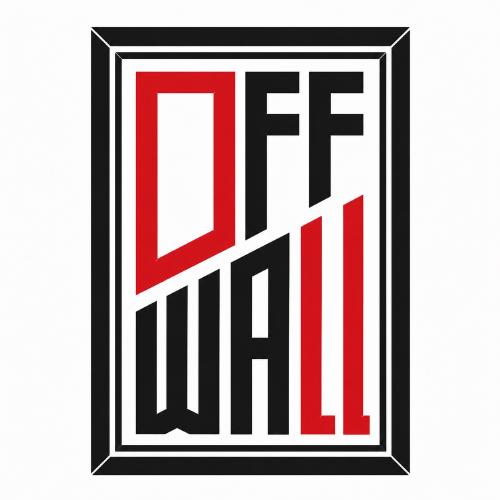
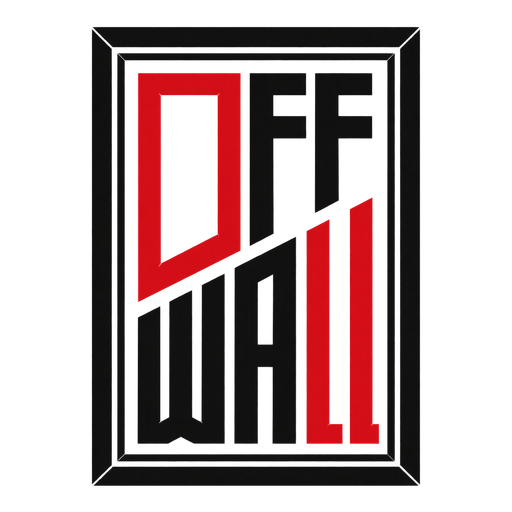
Update search identity and illustrate frame finishes

diff --git a/src/app/page.tsx b/src/app/page.tsx
@@ -7,13 +7,7 @@ import { StructuredData } from '@/components/structured-data';
 import { homeSeo, pageMetadata, SITE_URL } from '@/lib/seo';
 export async function generateMetadata() {
   const { demo } = await getCatalog();
-  return pageMetadata(
-    `${homeSeo.title} | OFFWALL`,
-    homeSeo.description,
-    '/',
-    '/artwork/jordan-chicago.png',
-    demo,
-  );
+  return pageMetadata(homeSeo.title, homeSeo.description, '/', '/artwork/jordan-chicago.png', demo);
 }
 export const dynamic = 'force-dynamic';
 export default async function Home() {
@@ -27,8 +21,19 @@ export default async function Home() {
           '@id': `${SITE_URL}/#organization`,
           name: 'OFFWALL',
           url: SITE_URL,
-          logo: `${SITE_URL}/offwall-logo.png`,
+          logo: `${SITE_URL}/offwall-logo-transparent.png`,
           sameAs: ['https://www.instagram.com/offwall.rs/'],
+        }}
+      />
+      <StructuredData
+        data={{
+          '@context': 'https://schema.org',
+          '@type': 'WebSite',
+          '@id': `${SITE_URL}/#website`,
+          name: 'OFFWALL',
+          alternateName: 'Off Wall',
+          url: `${SITE_URL}/`,
+          publisher: { '@id': `${SITE_URL}/#organization` },
         }}
       />
       <section className="hero section ink">
@@ -81,10 +86,10 @@ export default async function Home() {
       <section className="section surface feature" id="ramovi">
         <div className="frame-art">
           <Image
-            src="/artwork/negroni.png"
-            alt="Negroni poster sa ramom — detalj završnice"
+            src="/ramovi-crni-beli-drvo.webp"
+            alt="Ilustracija uglova ramova: crni mat, jednostavni beli i drvo toplog tamnog tona, odozgo nadole"
             fill
-            sizes="(max-width: 900px) 90vw, 45vw"
+            sizes="(max-width: 1000px) 90vw, 45vw"
           />
         </div>
         <div className="stack">
@@ -118,7 +123,9 @@ export default async function Home() {
               </article>
             ))}
           </div>
-          <p className="caption muted">Dostupne opcije i tačne cene proveri uz izabrani poster.</p>
+          <p className="caption muted">
+            Ilustrativni prikaz završnica. Dostupne opcije i tačne cene proveri uz izabrani poster.
+          </p>
           <Link className="button dark" href="/posteri">
             Izaberi poster i ram
           </Link>

diff --git a/src/lib/seo.ts b/src/lib/seo.ts
@@ -29,9 +29,9 @@ export function pageMetadata(
   };
 }
 export const homeSeo = {
-  title: 'Dizajnirani posteri i ramovi za tvoj zid',
+  title: 'OFFWALL: Posteri za zid | Sport, film i serije, street culture, lifestyle, arhitektura',
   description:
-    'OFFWALL posteri inspirisani sportom, filmovima, patikama i arhitekturom. Izaberi motiv, dimenzije i ram ili nam pošalji ideju za poster po meri.',
+    'Posteri za zid: sport, filmovi i serije, street culture, lifestyle i arhitektura. Izaberi svoj motiv i dimenzije, sa crnim, belim ili drvenim ramom, ili bez rama.',
 };
 export const catalogSeo = {
   title: 'Posteri za zid — kolekcija sa ramom i bez rama',

diff --git a/src/app/globals.css b/src/app/globals.css
@@ -367,7 +367,10 @@ small {
 }
 .frame-art {
   position: relative;
-  aspect-ratio: 1;
+  aspect-ratio: 4 / 5;
+}
+.frame-art img {
+  object-fit: contain;
 }
 .steps {
   display: grid;
@@ -689,8 +692,9 @@ footer .controls {
     grid-template-columns: 1fr;
   }
   .frame-art {
-    aspect-ratio: auto;
-    height: 460px;
+    width: 100%;
+    max-width: 560px;
+    margin-inline: auto;
   }
   .product-grid {
     grid-template-columns: repeat(2, minmax(0, 1fr));
@@ -785,9 +789,7 @@ footer .controls {
     grid-template-columns: 1fr;
     padding: 16px;
   }
-  .frame-art {
-    height: 340px;
-  }
+
   .feature {
     gap: 24px;
   }

diff --git a/src/app/layout.tsx b/src/app/layout.tsx
@@ -8,7 +8,7 @@ import { Header } from '@/components/header';
 import Link from 'next/link';
 export const metadata: Metadata = {
   metadataBase: new URL(SITE_URL),
-  title: { default: `${homeSeo.title} | OFFWALL`, template: '%s | OFFWALL' },
+  title: { default: homeSeo.title, template: '%s | OFFWALL' },
   description: homeSeo.description,
   openGraph: { type: 'website', locale: 'sr_RS', siteName: 'OFFWALL' },
 };

diff --git a/docs/visual-update-2026-09-27.md b/docs/visual-update-2026-09-27.md
@@ -1,0 +1,18 @@
+# Google prikaz i ramovi — 27.09.2026.
+
+Naslov početne: OFFWALL: Posteri za zid | Sport, film i serije, street culture, lifestyle, arhitektura.
+Opis: Posteri za zid: sport, filmovi i serije, street culture, lifestyle i arhitektura. Izaberi svoj motiv i dimenzije, sa crnim, belim ili drvenim ramom, ili bez rama.
+Google može skratiti naslov ili izabrati drugi isečak prema upitu. WebSite schema predlaže OFFWALL kao naziv sajta. Transparentni favicon ostaje na postojećem /icon.png URL-u.
+
+## Slika ramova
+
+Alat: ugrađeni image_gen, product-mockup. Konačna optimizovana datoteka: public/ramovi-crni-beli-drvo.webp.
+Prompt: Exactly three separated L-shaped picture-frame corner samples arranged vertically, top to bottom: matte black, simple clean white, dark warm oak wood with visible natural grain and subtle lacquer sheen. Same scale and orientation, clean 45-degree miter joints, warm light greige background, soft studio daylight, no text or posters, portrait 4:5.
+Slika je ilustracija završnica, ne fotografija konkretnih proizvoda; označena je tako na sajtu. Tekstualni redosled ostaje Crni, Beli, Drvo. Nisu promenjene varijante i cene.
+
+## Logo
+
+Iz priloženog PDF-a izdvojena originalna ugrađena slika. Ugrađeni image_gen korišćen za uklanjanje bele pozadine uz očuvanje crveno-crnog znaka, okvira i slova. Rezultat sa alpha kanalom: public/offwall-logo-transparent.png i src/app/icon.png, 512×512. Zaglavlje sajta nije preuređeno.
+Prompt: Remove white background including gaps; preserve original red and black letters, diagonal division and double rectangular frame, exact layout and proportions; transparent PNG, no redesign.
+
+Prethodni SEO izveštaj je istorijski snimak pre ove promene naslova i slike.
